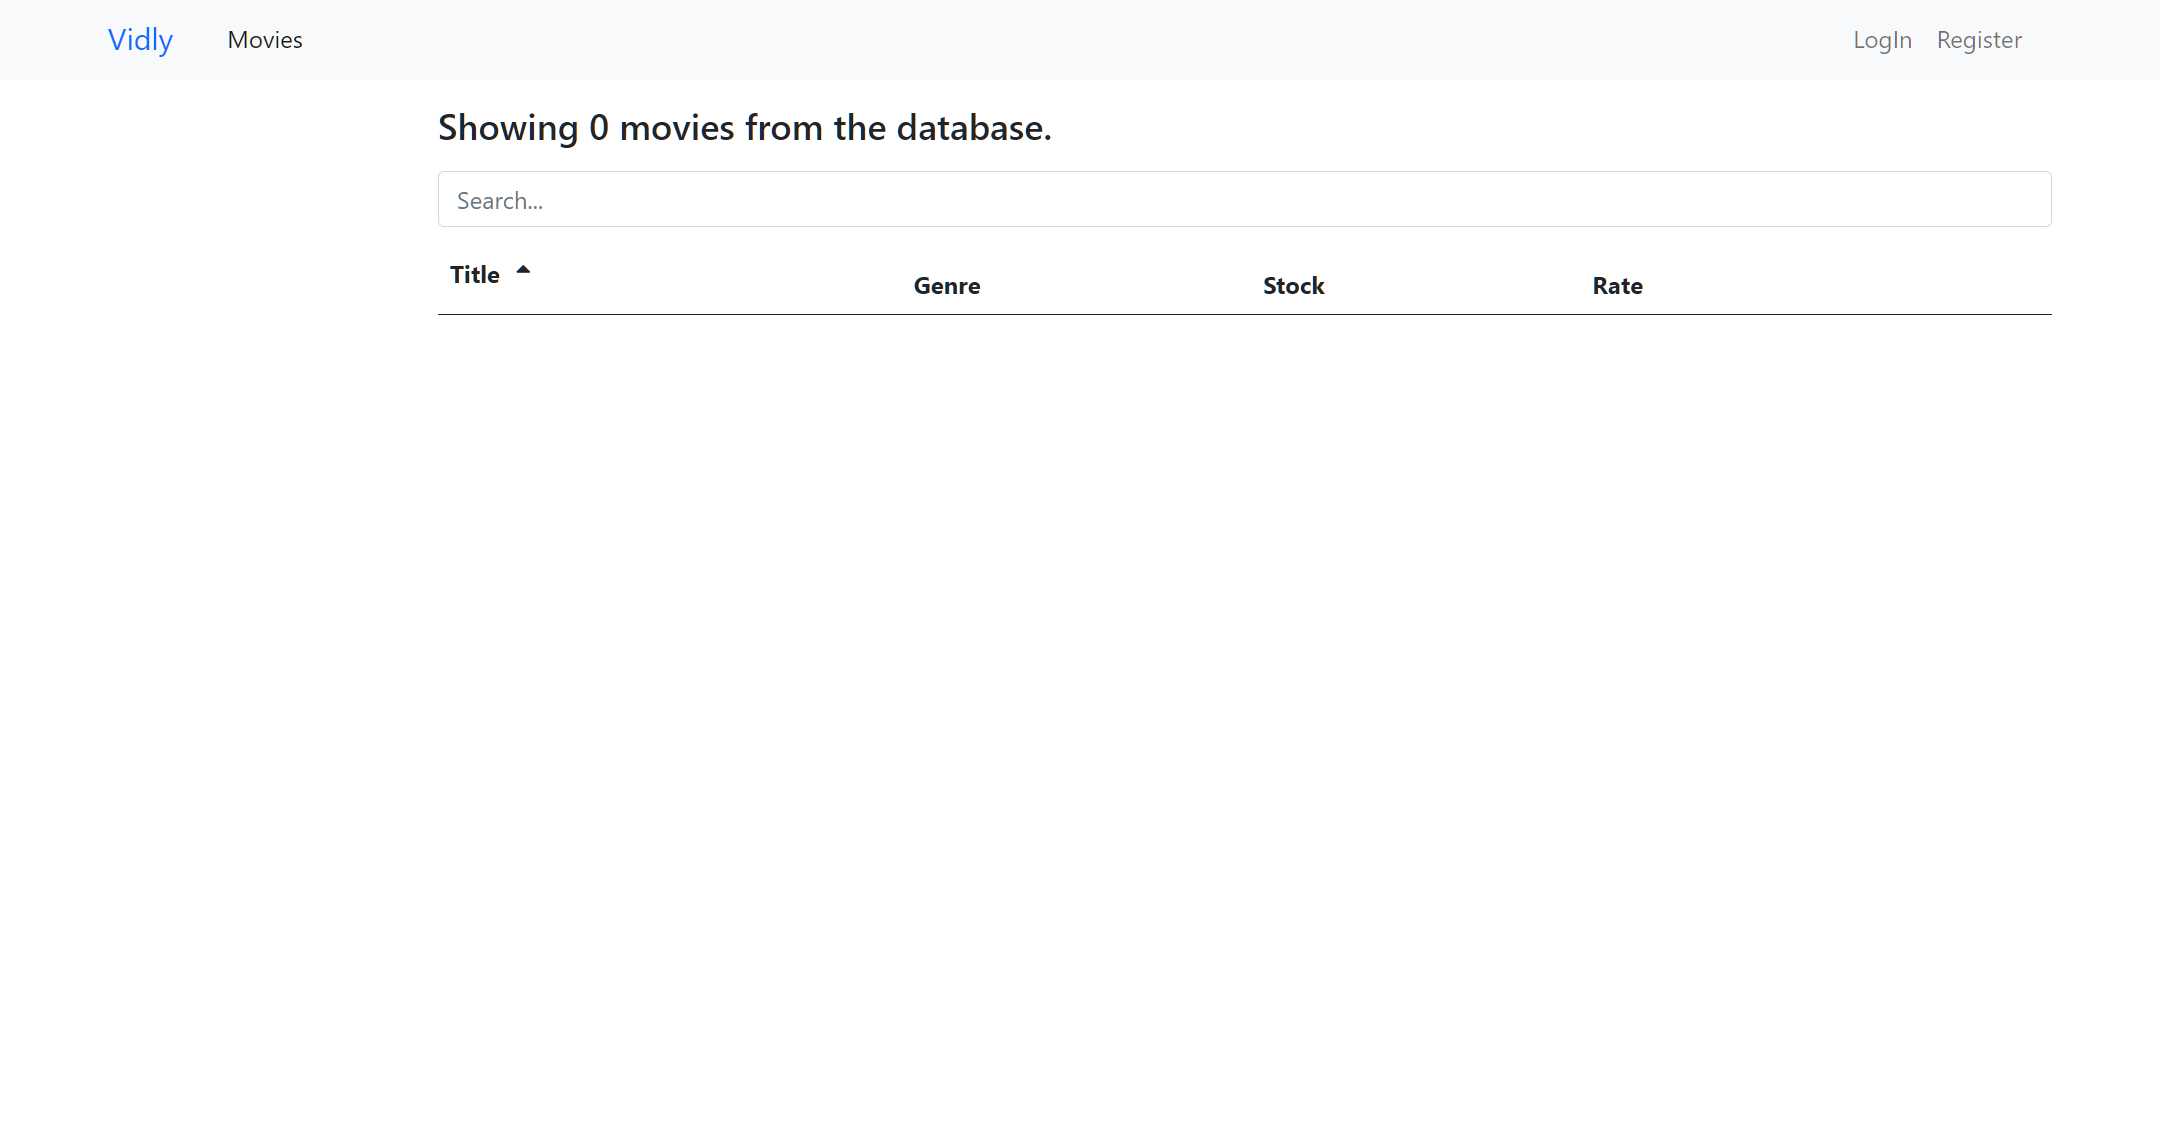
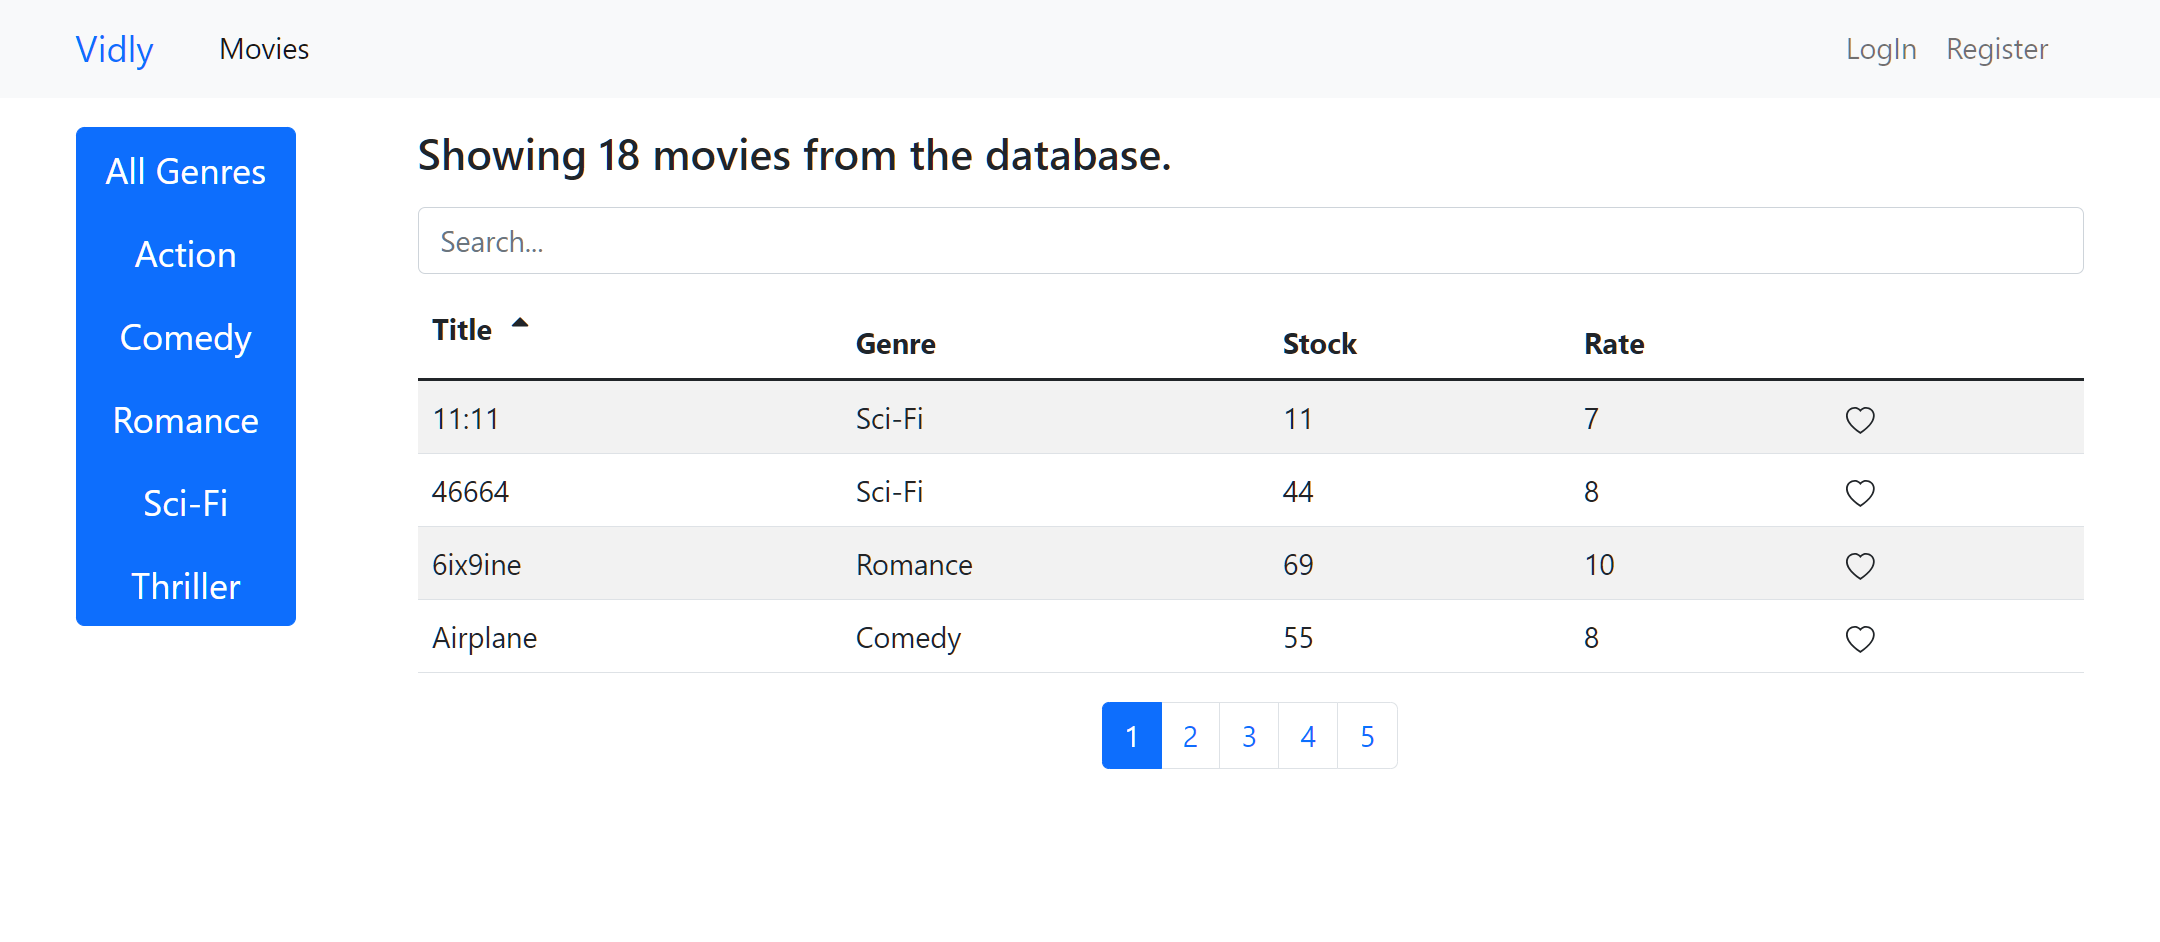
updated API URL

diff --git a/src/services/httpService.js b/src/services/httpService.js
@@ -2,10 +2,8 @@ import axios from 'axios';
 import { toast } from 'react-toastify';
 
 axios.defaults.baseURL= 
-  "https://vidly-api-311667483530.europe-west1.run.app/api"
-  // "https://real-pink-walkingstick-kilt.cyclic.app/api"
-  // "https://vidly-node-api.vercel.app/api"
-  // "http://localhost:3003/api"
+// "http://localhost:3003/api"
+"https://vidly-api-311667483530.europe-west1.run.app/api"
 ;
 
 axios.interceptors.response.use(null, error =>{